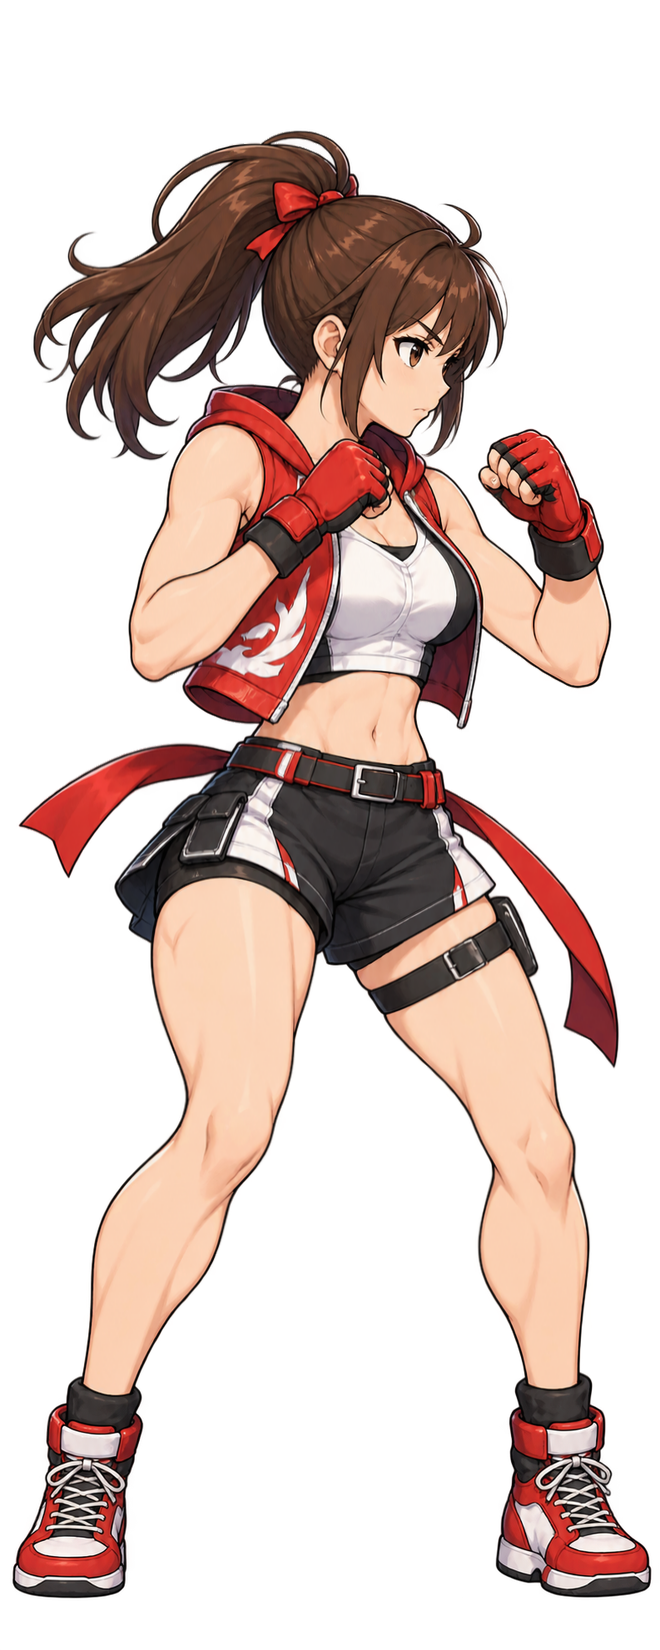
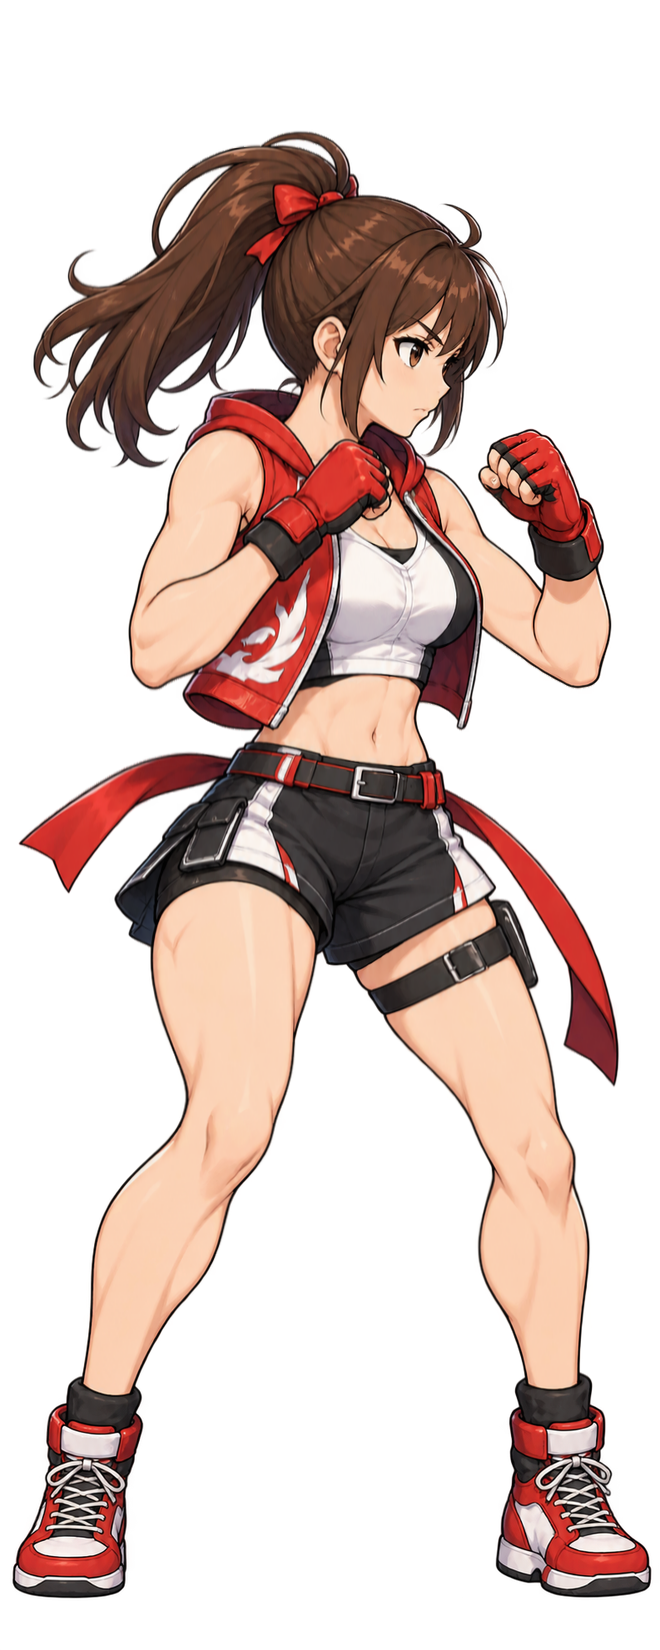
揺れもの調整

diff --git a/Character/kira/anim/fighting_idle.md b/Character/kira/anim/fighting_idle.md
@@ -28,34 +28,35 @@
 - 骨盤から頭までの上半身は一つの剛体として上下移動させ、腰・腹部・胸を個別に押し縮めたり、縦横比を変えたりしない
 - 両脚の骨の長さと靴の大きさは一定に保ち、膝関節の回転でポーズを変える。両足、靴、足先の接地点は全フレームで固定する
 
-## 揺れものの相対変位とタイミング（必須・省略不可）
+## 髪・腰ひもの相対変位をさらに2倍（必須・省略不可）
+- 腰・胴体、ジャケット裾、胸部分の現行変位は変えない。髪の毛と腰ひもだけ、現在の指示値から相対変位をさらに2倍にする（初版比では約4倍）。髪の根元と紐の結び目は親に固定し、毛先・紐先だけを動かす。
 - 腰の上下動と揺れものの動きを別々に指定する。下表の「相対変位」は、取り付け位置（親）に対する追加の下方向移動量であり、身体込みの総変位ではない
 - 最終的な各基準点の位置は「親の基準点の移動量 + 表の相対変位」で計算する。画像生成時に相対変位を親の動きへ吸収したり、省略したりしない
 - すべての値は最終PNG上のpx。下方向を正とする
 
-| フレーム | 腰・胴体の基準変位 | 髪・腰ひも・服の自由端の相対変位 | 自由端の総変位 | 胸部分の相対変位 | 胸部分の総変位 |
-|---|---:|---:|---:|---:|---:|
-| 1 | 0 px | 0 px | 0 px | 0 px | 0 px |
-| 2 | 4 px | 2 px | 6 px | 1 px | 5 px |
-| 3 | 8 px | 5 px | 13 px | 3 px | 11 px |
-| 4 | 10 px | 7 px | 17 px | 4 px | 14 px |
-| 5 | 8 px | 8 px | 16 px | 5 px | 13 px |
-| 6 | 4 px | 4 px | 8 px | 2 px | 6 px |
-| 7 | 0 px | 0 px | 0 px | 0 px | 0 px |
+| フレーム | 腰・胴体の基準変位 | 髪・腰ひもの相対変位 | 髪・腰ひもの総変位 | ジャケット裾の相対変位（現状維持） | ジャケット裾の総変位 | 胸部分の相対変位（現状維持） | 胸部分の総変位 |
+|---|---:|---:|---:|---:|---:|---:|---:|
+| 1 | 0 px | 0 px | 0 px | 0 px | 0 px | 0 px | 0 px |
+| 2 | 4 px | 8 px | 12 px | 4 px | 8 px | 2 px | 6 px |
+| 3 | 8 px | 20 px | 28 px | 10 px | 18 px | 6 px | 14 px |
+| 4 | 10 px | 28 px | 38 px | 14 px | 24 px | 8 px | 18 px |
+| 5 | 8 px | 32 px | 40 px | 16 px | 24 px | 10 px | 18 px |
+| 6 | 4 px | 16 px | 20 px | 8 px | 12 px | 4 px | 8 px |
+| 7 | 0 px | 0 px | 0 px | 0 px | 0 px | 0 px | 0 px |
 
 ### 必須の作成手順
 - 基本画像を複製して7枚の土台にし、全身を毎フレーム描き直さない
-- 少なくとも次の独立した透過レイヤー／マスクを作る：剛体として動く胴体、ポニーテールの可動部分、腰ひも・ジャケット裾などの自由端、胸部分。髪の根元・ひもの結び目・服の取り付け位置は親側に残し、動かす範囲と固定アンカーを分ける
-- まず腰・胴体の基準変位を適用する。次に髪・布の自由端と胸部分へ表の相対変位をそれぞれ追加する。親の移動だけで終わらせない
-- ポニーテールは根元を頭に固定したまま毛先を動かす。ひも・裾は結び目や縫い付け位置を腰・服に固定したまま、先端だけを相対変位分動かす
-- 胸部分は独立した小さな追従レイヤーとして動かす。胴体全体を変形させず、胸や腰を押し縮めたり、縦横比を変えたりしない
+- 次の独立した透過レイヤー／マスクを個別に作る：胴体、ポニーテール、左右の腰ひも、ジャケット裾、胸部分。ポニーテールと左右の腰ひもはジャケット裾と同じマスクにまとめない。髪の根元・ひもの結び目・服の取り付け位置は親側に残し、各可動範囲と固定アンカーを分ける
+- まず腰・胴体の基準変位を適用する。次にポニーテールと左右の腰ひもへ「髪・腰ひも」列の相対変位、ジャケット裾へ「ジャケット裾」列、胸部分へ「胸部分」列の相対変位をそれぞれ個別に追加する。親の移動だけで終わらせない
+- ポニーテールは根元を頭に固定し、毛先を「髪・腰ひも」の列の相対変位分だけ動かす。左右の腰ひもは結び目を腰に固定し、紐先だけを同じ相対変位分だけ動かす。ジャケット裾は「ジャケット裾」の列に従い、現行の揺れ量を維持する
+- 胸部分は独立した追従レイヤーとして、胴体に対して指定された相対量が視認できるように動かす。胴体全体を変形させず、胸や腰を押し縮めたり、縦横比を変えたりしない
 - レイヤーの相対移動は数値変位として適用する。文章プロンプトだけで揺れを表現したことにしない
 - 7フレーム目では全レイヤーの相対変位を0 pxに戻し、1フレーム目と一致させる
 
 ### 数値照合と合格条件
 - 各PNGで親アンカーと可動部の基準点を個別に測定する。可動部の相対変位は「可動部のy座標の変化 - 親アンカーのy座標の変化」で照合する
-- 相対変位がフレーム順に、髪・布は 0、2、5、7、8、4、0 px、胸部分は 0、1、3、4、5、2、0 px であることを確認する。1 pxでも異なる場合は数値で修正し、再書き出しする
-- 4・5フレーム目で自由端と胸部分が胴体に対して実際に異なる位置にあることを拡大表示で確認する。親と同じ動きしかしていない場合は不合格
+- 相対変位がフレーム順に、髪・腰ひもは 0、8、20、28、32、16、0 px、ジャケット裾は 0、4、10、14、16、8、0 px、胸部分は 0、2、6、8、10、4、0 px であることを確認する。1 pxでも異なる場合は数値で修正し、再書き出しする
+- 4・5フレーム目で髪の毛先と腰ひも先端が胴体に対して実際に大きく動き、ジャケット裾と胸部分は現行指定どおりの変位であることを拡大表示で確認する。親と同じ動きしかしていない場合は不合格
 - 7フレーム目が1フレーム目と一致すること、足・靴の画素位置が全フレームで固定されていることを確認する
 - ZIPには7枚のPNGと、各フレームの親アンカー・可動部アンカー・測定した相対変位を記録した確認結果を含める。数値照合ができない場合は合格として出力しない
 
